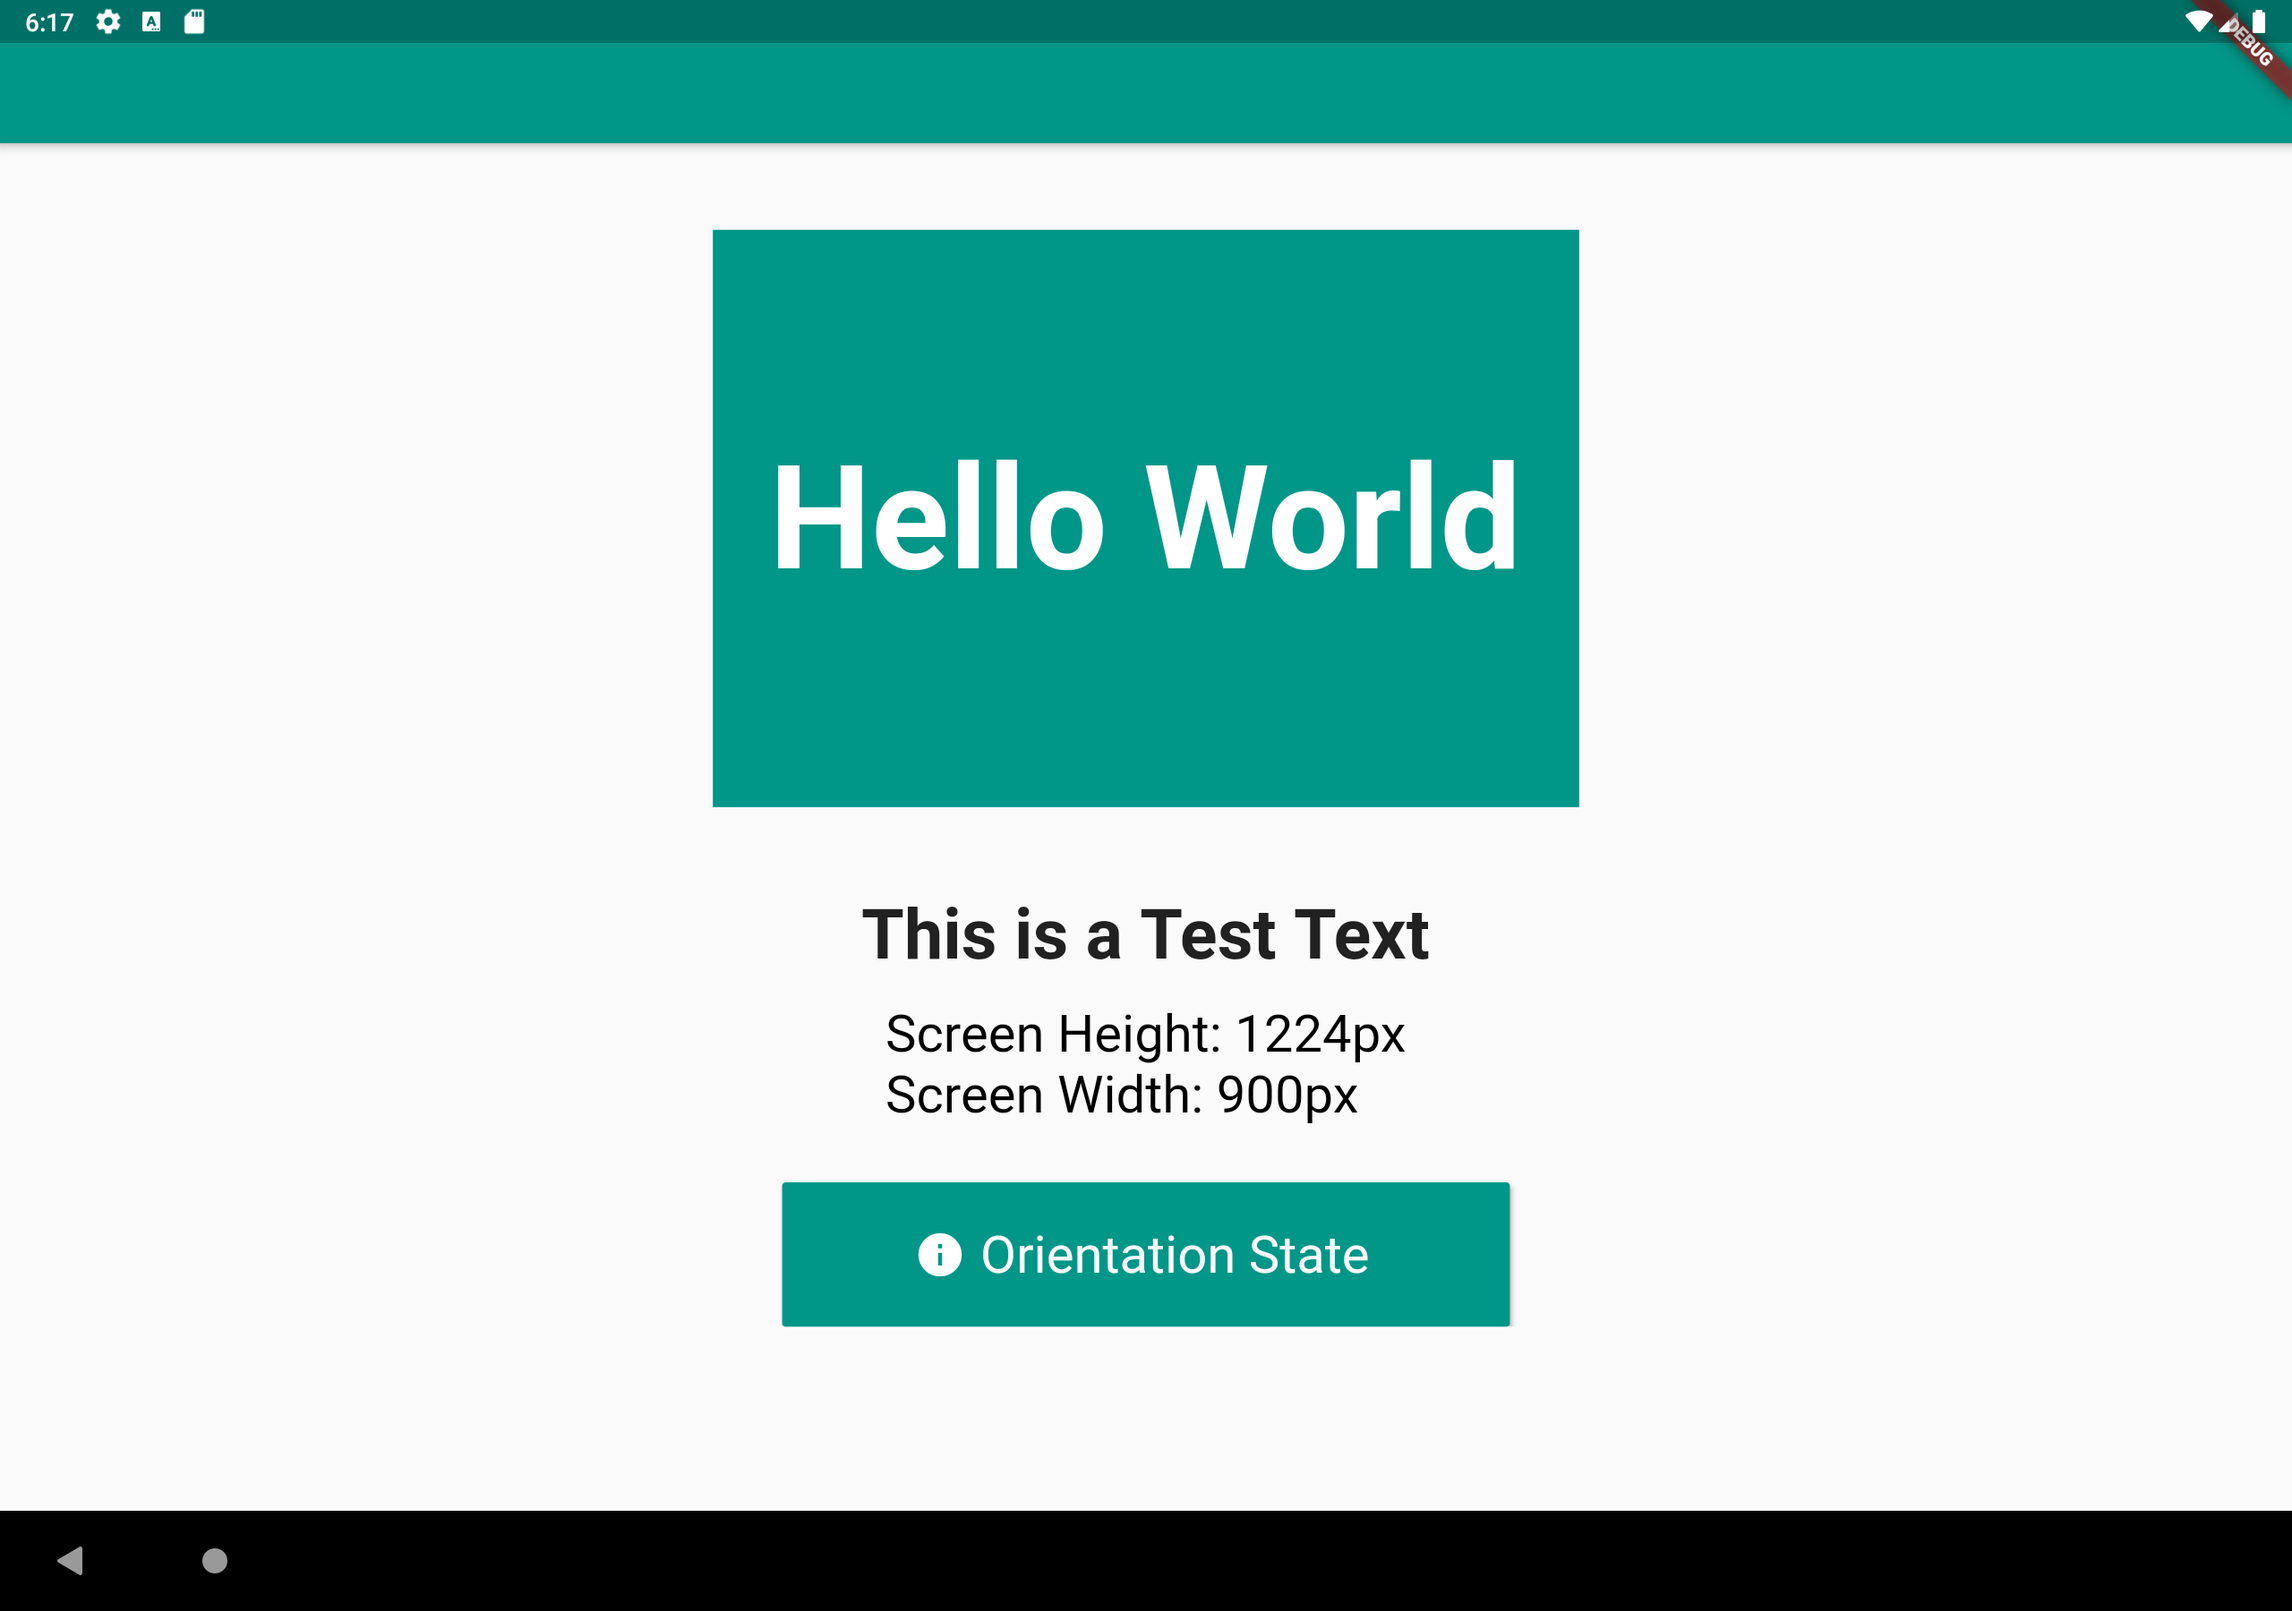
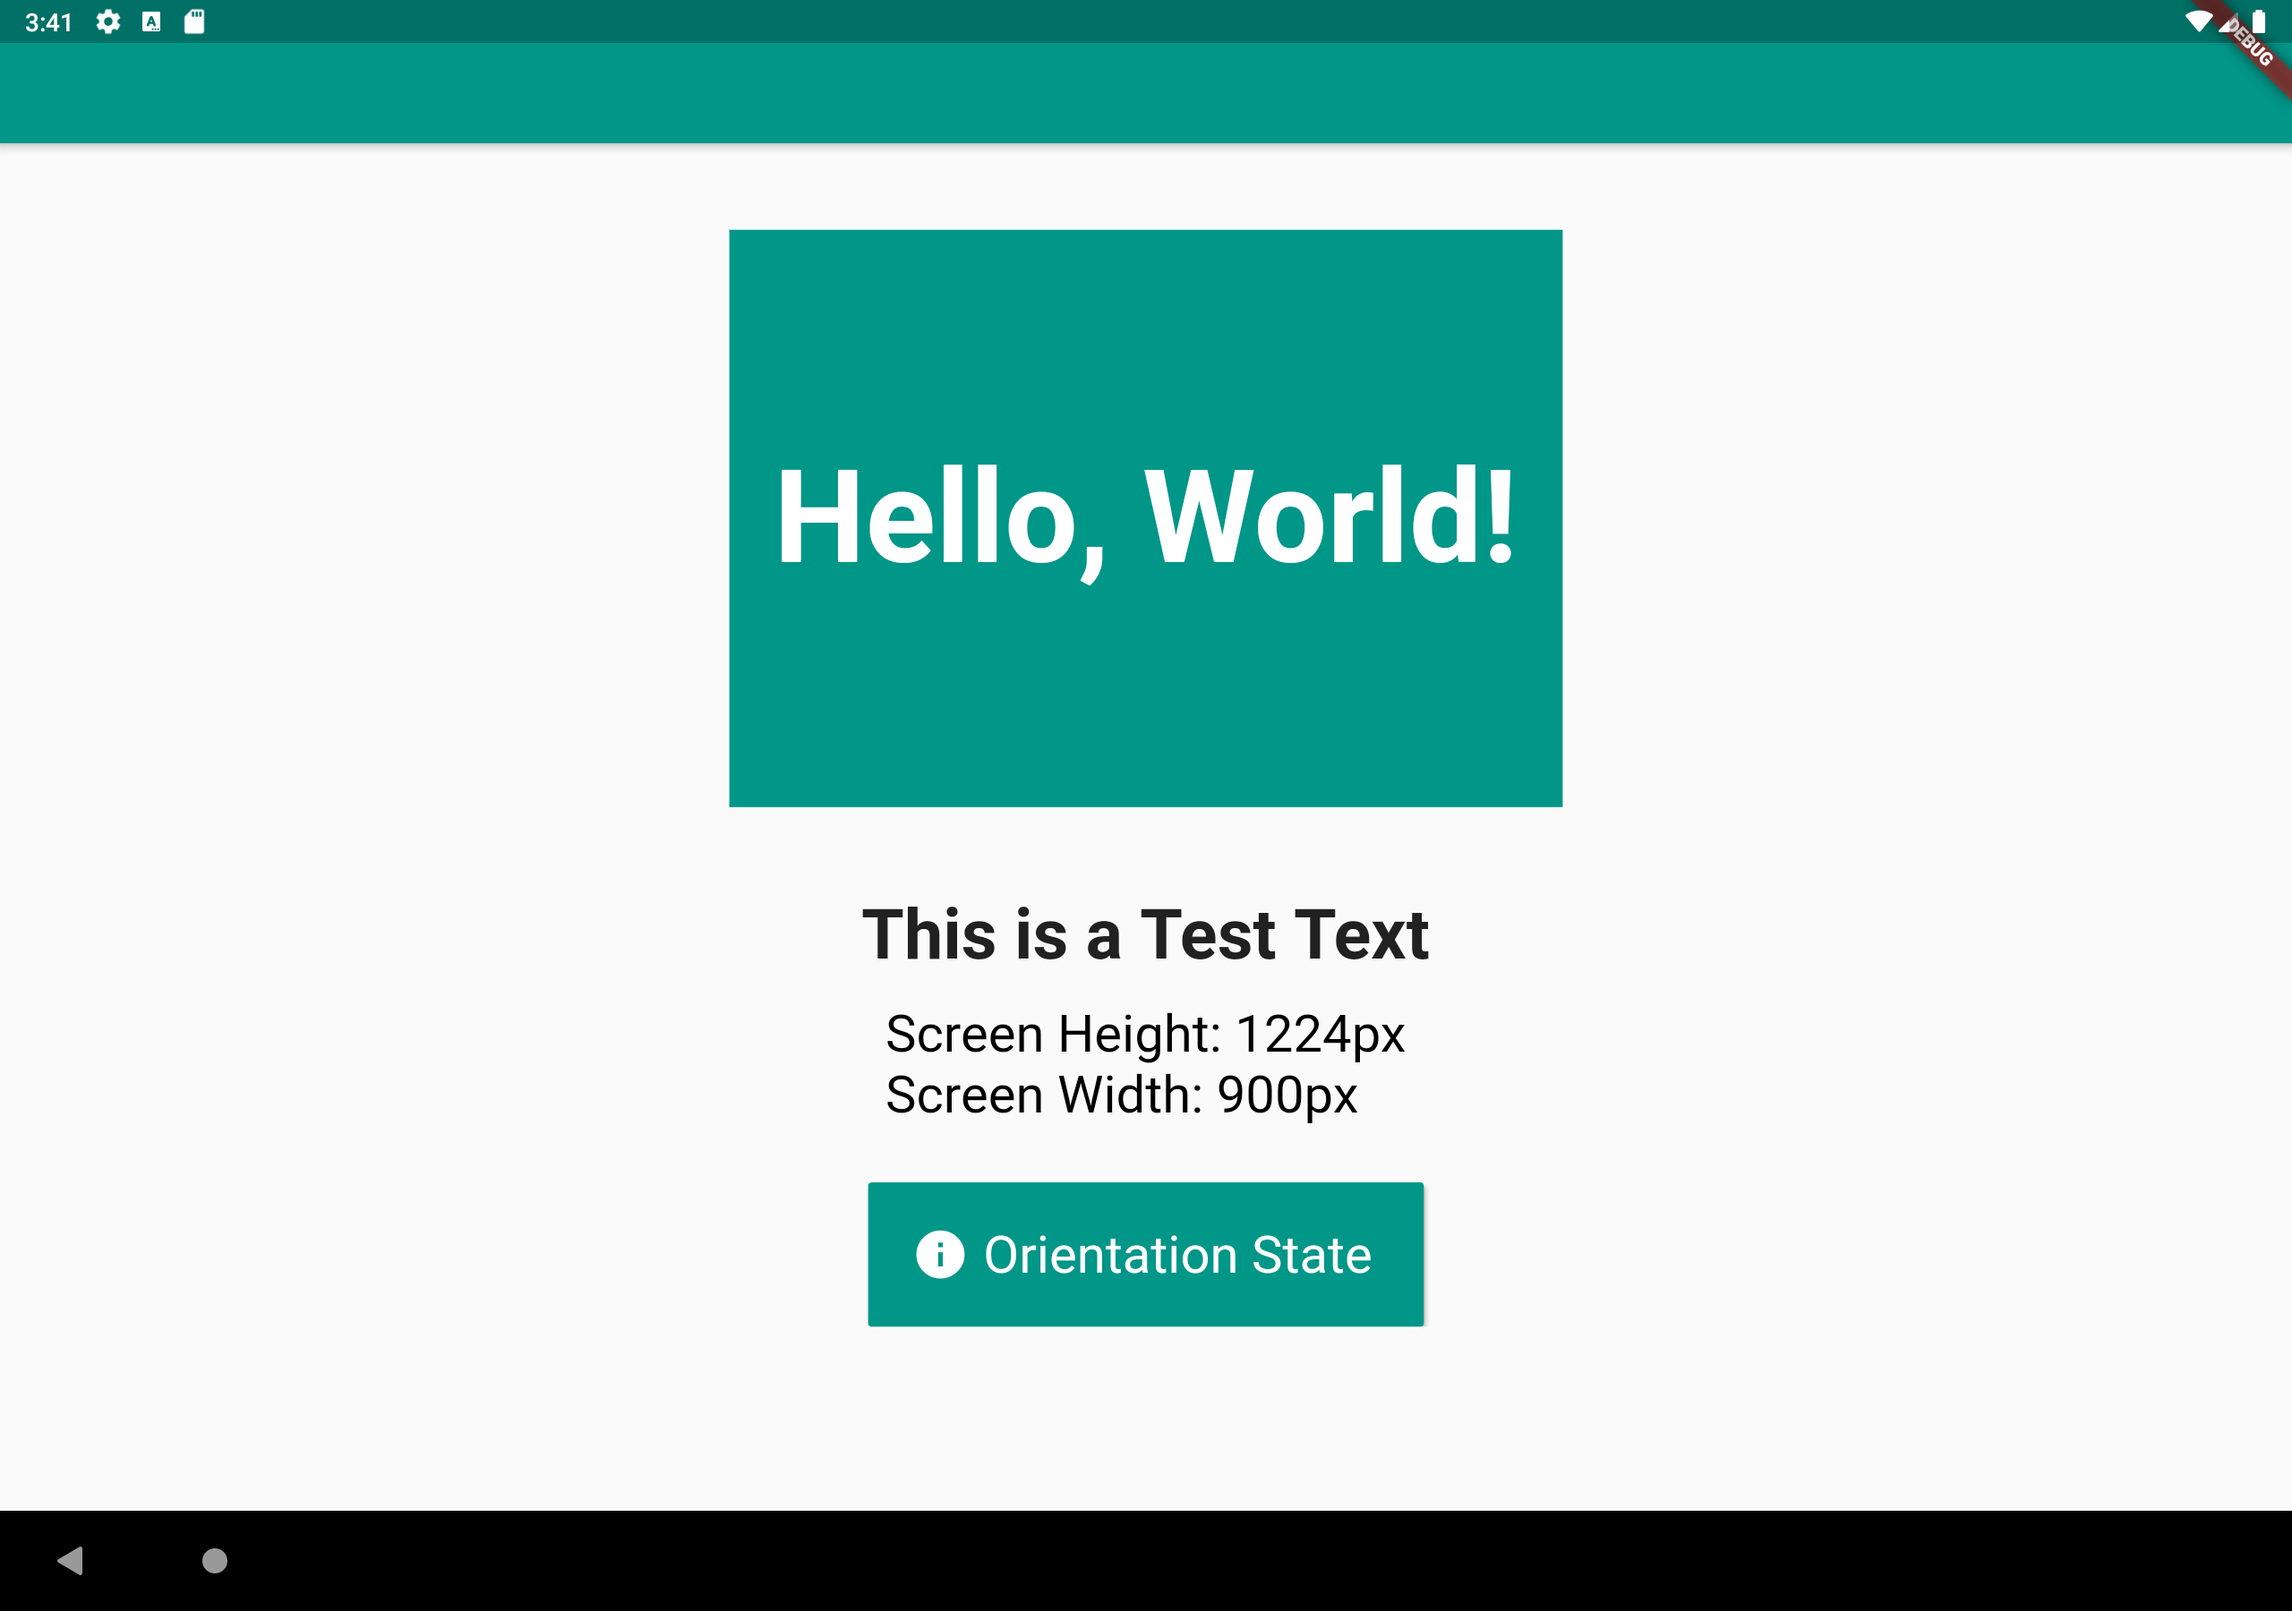
bug fixes

diff --git a/lib/response.dart b/lib/response.dart
@@ -15,7 +15,7 @@ class Response extends StatelessWidget {
       this.originalScreenWidth = 392});
 
   ///`originalScreenHeight` is the original device screen height in pixels
-  ///on which you designed your origial app layout.
+  ///on which you designed your original app layout.
   /// {@tool sample}
   ///
   /// ```dart
@@ -32,7 +32,7 @@ class Response extends StatelessWidget {
   final double originalScreenHeight;
 
   ///`originalScreenWidth` is the original device screen width in pixels
-  ///on which you designed your origial app layout.
+  ///on which you designed your original app layout.
   ///  /// {@tool sample}
   ///
   /// ```dart
@@ -53,7 +53,7 @@ class Response extends StatelessWidget {
   ///`child` must be in the top of our (Widget Tree) to work properly.
   ///You can say that your [child] widget is always will be our [MaterialApp]
   ///
-  ///`child` is a requirment to enable the package to work.
+  ///`child` is a requirement to enable the package to work.
   ///
   /// Still confused? Run the example app in which you can fine
   /// a working example with full comments to teach you every step
@@ -133,24 +133,24 @@ class ResponseUI {
     _fixedWidthFactor = originalWidth / 100;
   }
 
-  ///[isDevicePortrait] is helpful if you want to know whether the device orientation is
+  ///`isDevicePortrait` is helpful if you want to know whether the device orientation is
   ///in Portrait or in Landscape, it can ably to any device (Tablet or Mobil Phone).
   bool get isDevicePortrait => _isPortrait;
 
-  ///[inMobilePortrait] is helpful if you want to know whether the device you are
+  ///`inMobilePortrait` is helpful if you want to know whether the device you are
   ///working on a Mobile Portrait or a Tablet Portrait mode and you can take action
   ///according to these information ot layout your UI.
   bool get inMobilePortrait => _isMobilePortrait;
 
-  ///[screenWidth] returns the current device screen width.
-  ///Note: You can use it insted of `MediaQuery.of(context).size.width`
+  ///`screenWidth` returns the current device screen width.
+  ///Note: You can use it instead of `MediaQuery.of(context).size.width`
   double get screenWidth => _screenWidth;
 
   ///[screenHeight] returns the current device screen height.
-  ///Note: You can use it insted of `MediaQuery.of(context).size.height`
+  ///Note: You can use it instead of `MediaQuery.of(context).size.height`
   double get screenHeight => _screenHeight;
 
-  ///[setWidth] uses its argument [width] to calculate the initial widget width
+  ///`setWidth` uses its argument `width` to calculate the initial widget width
   ///in pixels and from that the package can deal with all the calculation.
   ///`setWidth`
   /// {@tool sample}
@@ -164,16 +164,16 @@ class ResponseUI {
   /// ```
   /// {@end-tool}
 
-  ///[width] is the widget width which you want it initially and finally be the same.
+  ///`width` is the widget width which you want it to be the same across any screen size.
   double setWidth(double width) {
-    double _tempFixedWidthFactor = 0;
+    double _tempFixedWidthFactor = _fixedWidthFactor;
     if (_fixedWidthFactor < _blockWidth * 0.6) {
-      _tempFixedWidthFactor = _fixedWidthFactor * 1.13;
+      _tempFixedWidthFactor *= 1.48;
     }
     return ((width / _tempFixedWidthFactor) * _blockWidth);
   }
 
-  ///[setHeight] uses its argument [height] to calculate the initial widget height
+  ///`setHeight` uses its argument `height` to calculate the initial widget height
   ///in pixels and from that the package can deal with all the calculation.
   ///`setHeight`
   /// {@tool sample}
@@ -188,12 +188,12 @@ class ResponseUI {
   /// {@end-tool}
   ///
 
+  ///`height` is the widget height which you want it to be the same across any screen size.
   double setHeight(double height) {
-    ///[height] is the widget height which you want it initially and finally be the same.
     return ((height / _fixedHeightFactor) * _blockHeight);
   }
 
-  ///[setFontSize] uses its argument [fontSize] to calculate the initial text size
+  ///`setFontSize` uses its argument `fontSize` to calculate the initial text size
   ///in pixels and from that the package can deal with all the calculation.
   ///`setFontSize`
   /// {@tool sample}
@@ -209,9 +209,8 @@ class ResponseUI {
   /// ```
   /// {@end-tool}
   ///
-
+  ///`fontSize` is the text size which you want it to be the same across any screen size.
   double setFontSize(double fontSize) {
-    ///[fontSize] is the text size which you want it initially and finally be the same.
     return ((fontSize / _fixedHeightFactor) * _blockHeight);
   }
 }

diff --git a/example/lib/main.dart b/example/lib/main.dart
@@ -3,7 +3,7 @@ import 'package:response/response.dart';
 
 void main() => runApp(MyApp());
 
-ResponseUI response = ResponseUI();
+var response = ResponseUI();
 
 class MyApp extends StatelessWidget {
   @override
@@ -44,14 +44,14 @@ class HomePage extends StatelessWidget {
                 //across all the available displays on which the app will work on.
                 //Note: the scaling process will work also in the same device in both
                 //in Portrait mode or in Landscape mode.
-                width: response.setHeight(300),
+                width: response.setWidth(300),
                 height: response.setHeight(200),
                 color: Colors.teal,
                 child: Center(
                   child: Text(
-                    "Hello World",
+                    "Hello, World!",
                     style: TextStyle(
-                      fontSize: response.setFontSize(50),
+                      fontSize: response.setFontSize(45),
                       color: Colors.white,
                       fontWeight: FontWeight.bold,
                     ),
@@ -109,7 +109,7 @@ class HomePage extends StatelessWidget {
                   icon: Icon(
                     Icons.info,
                     color: Colors.white,
-                    size: response.setHeight(18),
+                    size: response.setHeight(20),
                   ),
                   label: Text(
                     'Orientation State',

diff --git a/README.md b/README.md
@@ -3,11 +3,11 @@
 Flutter UI package which will help you to build your responsive UI design as you wanted to be on any device as it recreates every widget to fit the device display size on which the app is working.
 
 
-<img src="https://github.com/AhmedAbouelkher/Response-for-Flutter/blob/master/screenshots/Mobile_Portrait.png" width="320" alt="Mobile">  <img src="https://github.com/AhmedAbouelkher/Response-for-Flutter/blob/master/screenshots/Tablet_Portrait.png" height="820" alt="Tablet" align="top">
+<img src="https://github.com/AhmedAbouelkher/Response-for-Flutter/blob/master/screenshots/Mobile_Portrait.png" width="320" alt="Mobile">  <img src="https://github.com/AhmedAbouelkher/Response-for-Flutter/blob/master/screenshots/Tablet_Portrait.png" height="800" alt="Tablet" align="top">
 
 <!-- ![Responsive Layout Preview](./responsive_example.gif) -->
 
-<!-- ![Mobile](https://github.com/AhmedAbouelkher/Response-for-Flutter/blob/master/screenshots/Mobile_Portrait.png)  ![Tablet](https://github.com/AhmedAbouelkher/Response-for-Flutter/blob/master/screenshots/Tablet_Portrait.png) -->
+ <!-- ![Mobile](https://github.com/AhmedAbouelkher/Response-for-Flutter/blob/master/screenshots/Mobile_Portrait.png)  ![Tablet](https://github.com/AhmedAbouelkher/Response-for-Flutter/blob/master/screenshots/Tablet_Portrait.png) -->
 
 ### Features
 - Easy to use, with so few, yet powerful methods.
